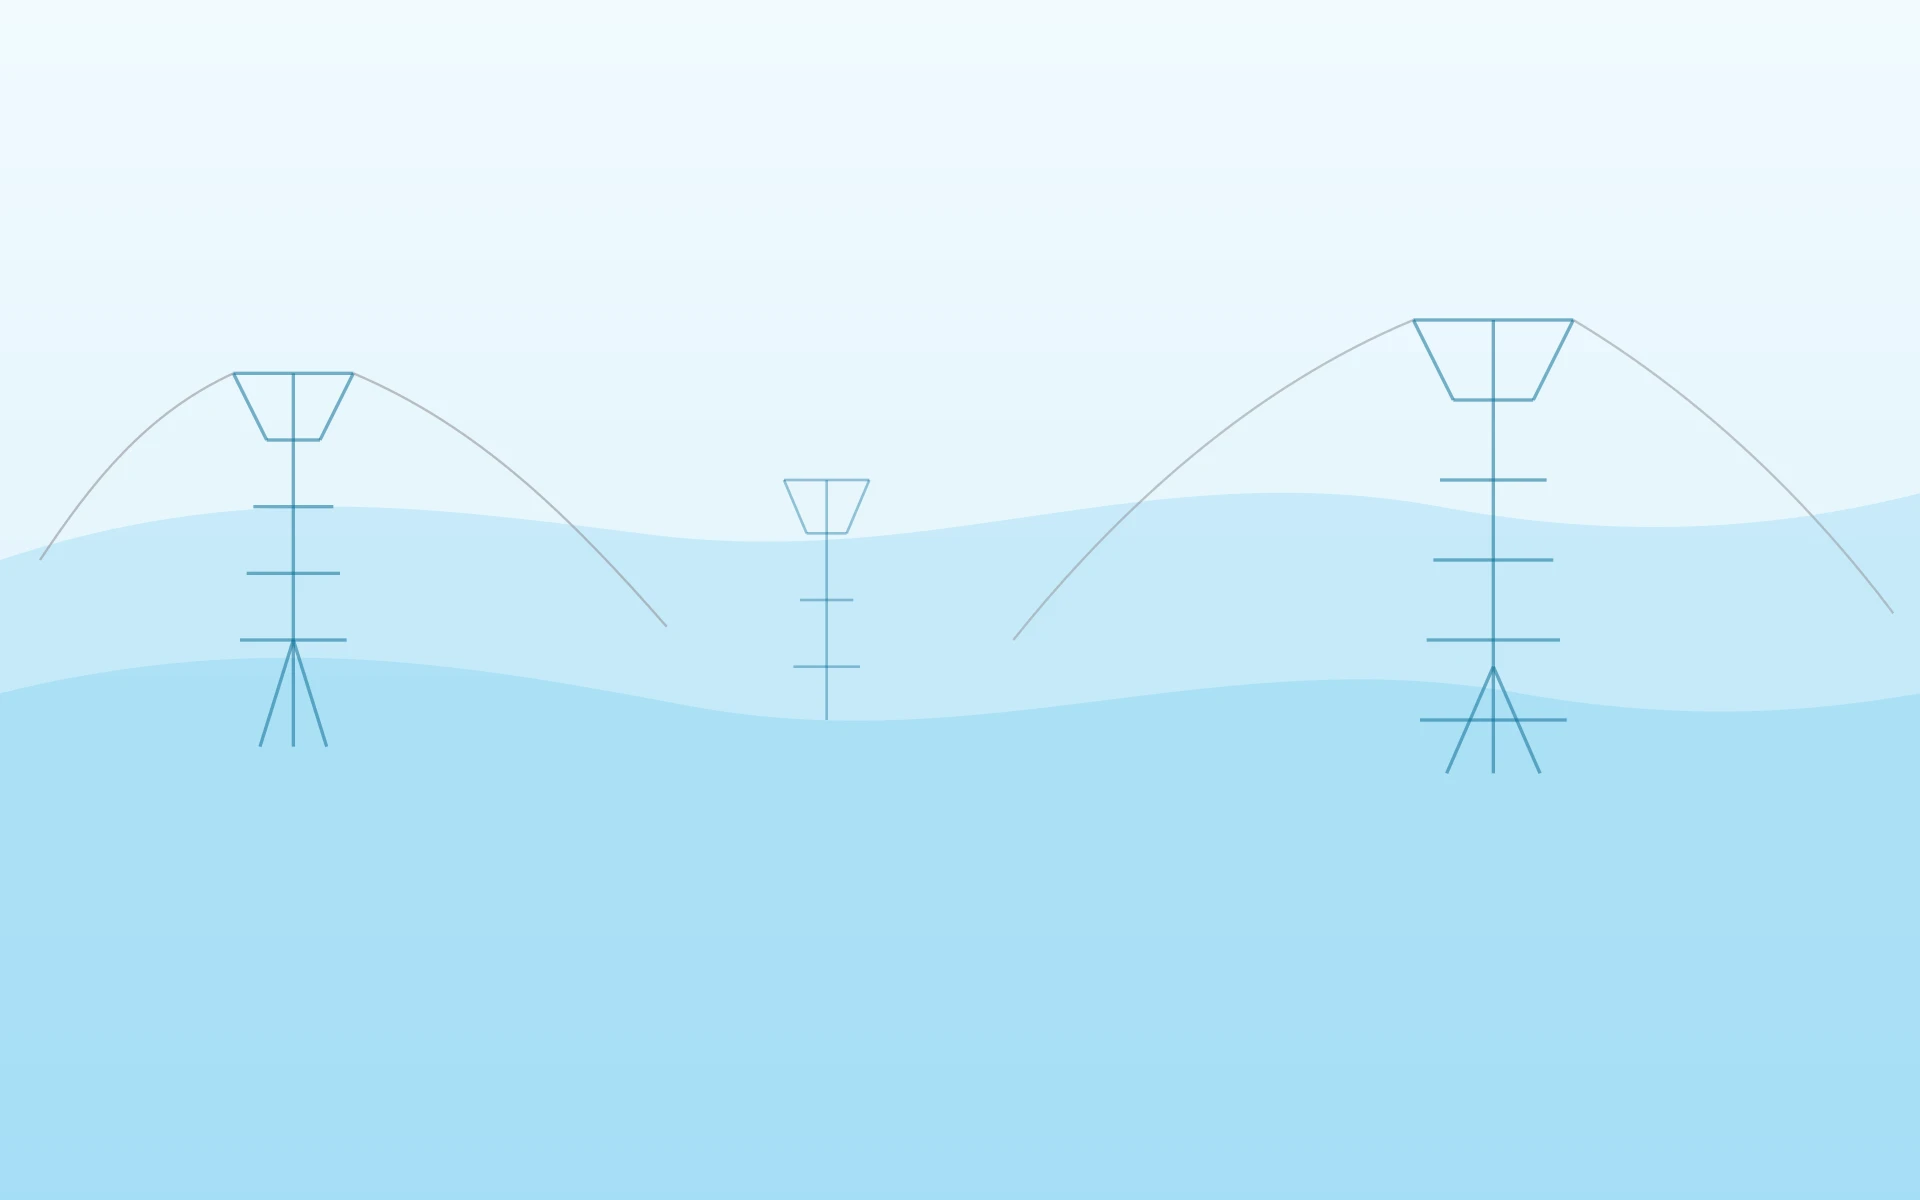
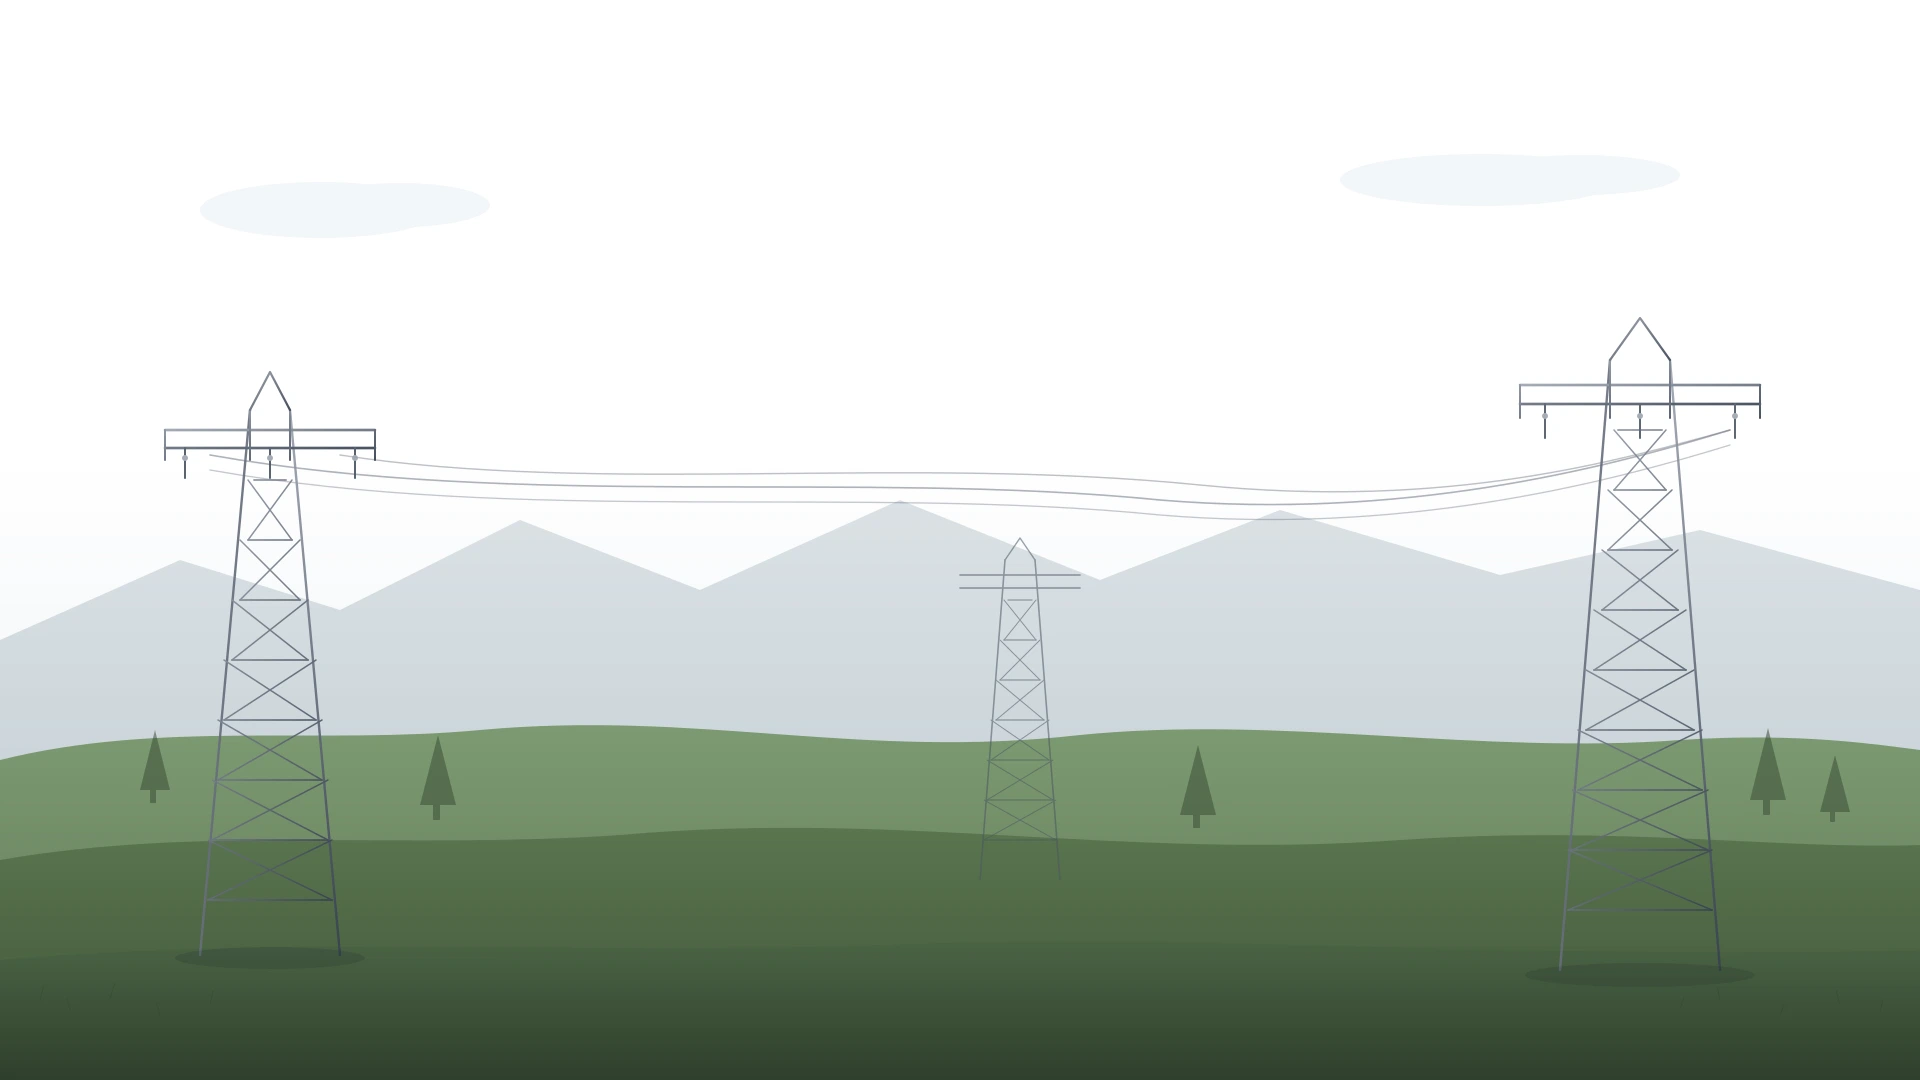
feat(auth): realistic vector landscape with white upper sky

diff --git a/src/pages/auth/LoginPage.tsx b/src/pages/auth/LoginPage.tsx
@@ -51,14 +51,14 @@ export default function LoginPage() {
 
   return (
     <div
-      className="login-page relative min-h-screen flex flex-col bg-[#f1fafe]"
+      className="login-page relative min-h-screen flex flex-col bg-white"
       data-pwa={isPwa ? "true" : "false"}
     >
       <img
-        src="/images/login-bg.webp"
+        src="/images/login-bg.webp?v=3"
         alt=""
         aria-hidden="true"
-        className="pointer-events-none absolute inset-0 z-0 h-full w-full object-cover object-center opacity-80"
+        className="pointer-events-none absolute inset-0 z-0 h-full w-full object-cover object-bottom opacity-90"
       />
       <PwaReloadBanner />
       <div className="relative z-10 min-h-0 flex-1 flex items-center justify-center p-4">
